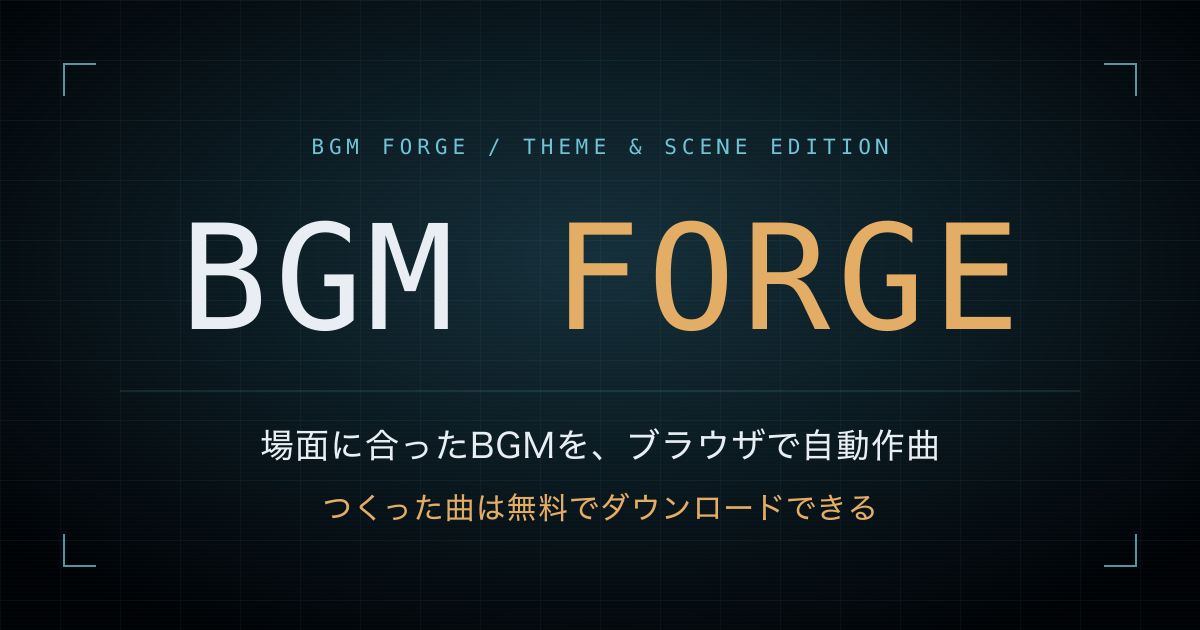
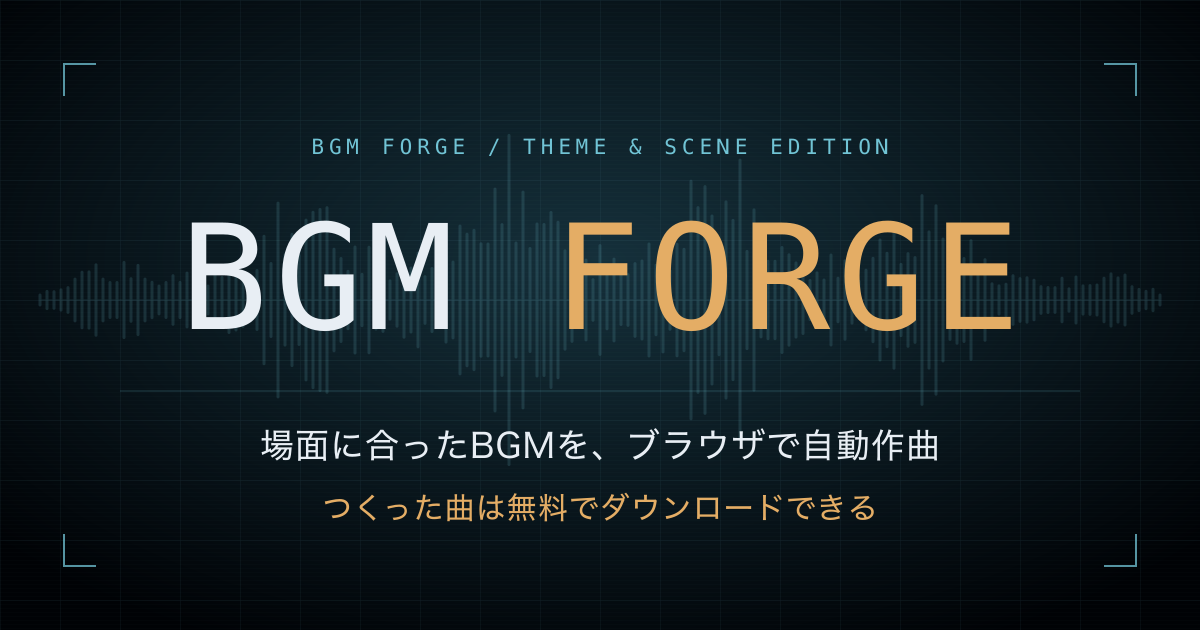
OGP背景に薄い青の音楽波形を追加する
ロゴ背後に不透明度16%の波形を配置。1200×630px、176559 bytes。文字の読みやすさを目視確認し、単体版再生成、646ケースPASS。

Changed region(s): [[0.0308, 0.3016, 0.9558, 0.6333]]

diff --git a/bgm_forge_v2.html b/bgm_forge_v2.html
@@ -550,7 +550,7 @@ main>.note{margin-top:18px;padding-top:14px;border-top:1px solid var(--line)}
 
 <script src="vendor/lamejs/lame.min.js?v=20260916k"></script>
 <script src="samples/vsco2/bank.js?v=20260916g"></script>
-<script src="bgm-score.js?v=20260919-download-copy"></script>
-<script src="bgm-forge.js?v=20260919-download-copy"></script>
+<script src="bgm-score.js?v=20260919-ogp-wave"></script>
+<script src="bgm-forge.js?v=20260919-ogp-wave"></script>
 </body>
 </html>

diff --git a/HANDOVER.md b/HANDOVER.md
@@ -232,6 +232,11 @@ const INNER_GAP=4, INNER_SPAN=11, PAD_LOW=55, PAD_HIGH=79;
 - 「作成した曲を、ここからダウンロード（保存ボタンを押す）」へ変更。33→27文字、自然幅389.6→322.4px。390px画面では296px幅の2行表示でボタンと重ならないことを確認。820pxでも確認済み。
 - 単体版再生成、646ケースPASS。
 
+### 2026-09-19 · OGP背景に薄い波形を追加
+
+- ロゴの背後に青い波形を追加。不透明度16%、161本の縦線で音の強弱を表現し、文字は前面に維持。
+- PNGは1200×630px、151,379→176,559 bytes。画像を目視して文字の読みやすさを確認。単体版再生成、646ケースPASS。
+
 ### 第1次（コードレビューの指摘への対応）
 
 | # | 内容 | 計測 |
